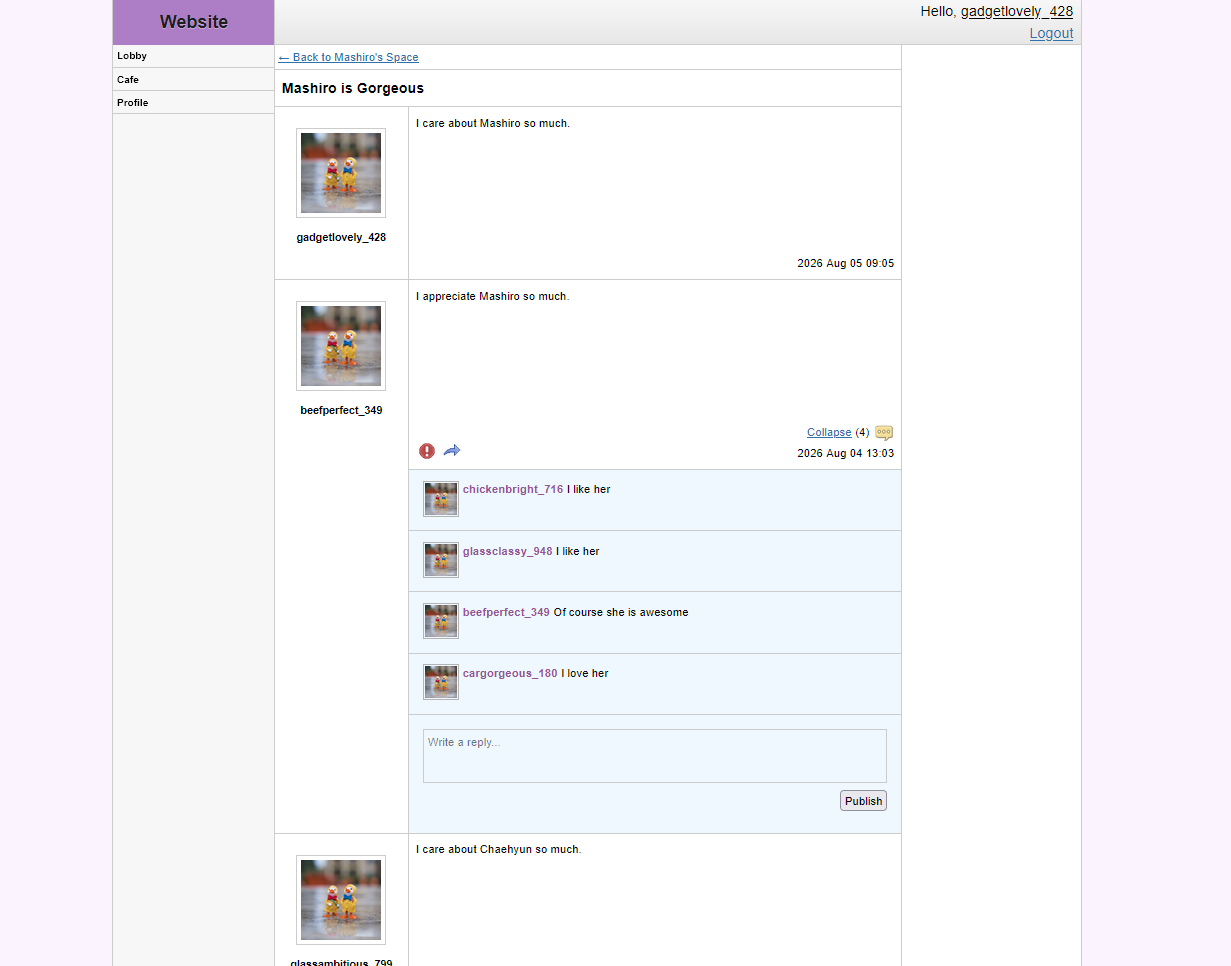
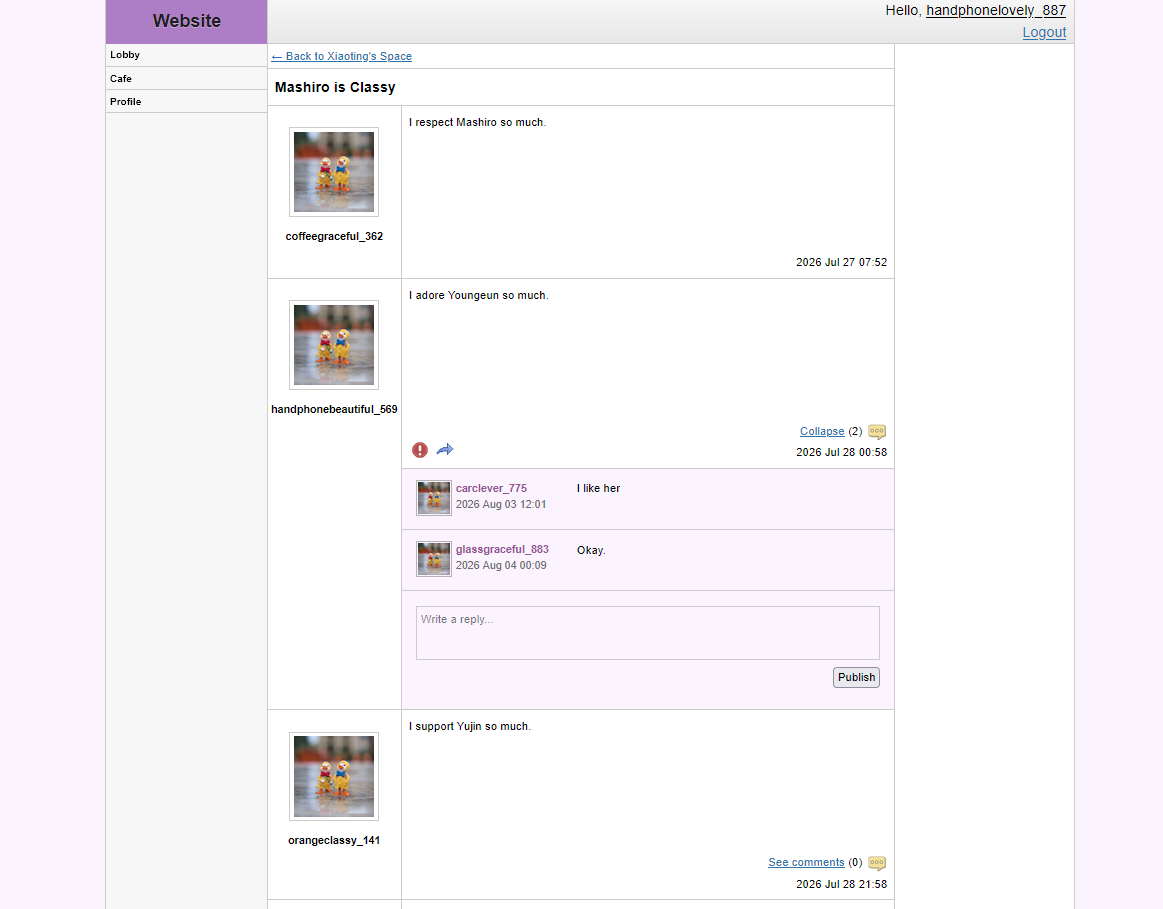
Add comment posted date, update comment layout background color, and update progress.png

diff --git a/assets/templates/cafe/topicview.html b/assets/templates/cafe/topicview.html
@@ -117,7 +117,7 @@
     .comment-layout {
       display: flex;
       flex-direction: column;
-      background: aliceblue;
+      background: var(--site-bg-color);
       border-top: 1px solid #ccc;
     }
 
@@ -140,10 +140,21 @@
       border: 1px solid #b3b3b3;
     }
 
+    .comment-author-name-container {
+      width: 200px;
+      overflow: hidden;
+      text-overflow: ellipsis;
+    }
+
     .comment-author-name {
-      height: max-content;
       font-weight: bold;
       color: #975396;
+      font-size: 12px;
+    }
+
+    .comment-posted-date {
+      font-size: 12px;
+      color: #6c6c6c;
     }
 
     .comment-content-container {
@@ -327,8 +338,11 @@
                     th:data-comment-id="${reply.replyId}">
                     <div class="comment" th:each="comment: ${reply.comments}">
                       <img class="comment-author-avatar" th:src="'/' + ${comment.authorAvatarUrl}" width="40px">
-                      <a class="comment-author-name" href="javascript:void(0)"
-                        th:text="${comment.authorDisplayName}"></a>
+                      <div class="comment-author-name-container">
+                        <a class="comment-author-name" href="javascript:void(0)"
+                          th:text="${comment.authorDisplayName}"></a>
+                        <p class="js-format-date comment-posted-date" th:data-raw-date="${comment.postedDate}"></p>
+                      </div>
                       <div class="comment-content-container">
                         <p class="comment-content" th:text="${comment.content}"></p>
                         <div class="comment-context-actions">
